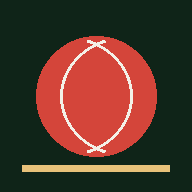
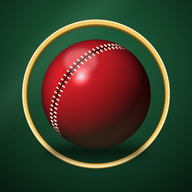
Add files via upload

diff --git a/index.html b/index.html
@@ -2,47 +2,68 @@
 <html lang="ur"><head><meta charset="utf-8">
 <meta name="viewport" content="width=device-width,initial-scale=1,viewport-fit=cover">
 <meta name="author" content="Sadiq Ahmad"><title>SadCricScorer</title>
-<link rel="manifest" href="manifest.json"><meta name="theme-color" content="#0f2418">
+<link rel="manifest" href="manifest.json"><meta name="theme-color" content="#0a1d13">
 <link rel="icon" href="icon-192.png"><link rel="apple-touch-icon" href="icon-192.png">
 <meta name="apple-mobile-web-app-capable" content="yes"><meta name="mobile-web-app-capable" content="yes">
 <meta name="apple-mobile-web-app-title" content="SadCricScorer">
 <style>
-:root{--bg:#0f2418;--pn:#183626;--ln:#2b5239;--tx:#f3f1e8;--mu:#9bb5a2;--ac:#e8c27a;--rd:#d4453a}
+:root{--bg:#07140d;--pn:#173a28;--ln:#2d5a41;--tx:#f4f1e6;--mu:#97b4a2;--ac:#f0c96b;--rd:#e0483c}
 *{box-sizing:border-box;-webkit-tap-highlight-color:transparent}
-body{margin:0;background:var(--bg);color:var(--tx);font:15px system-ui,sans-serif;padding-bottom:70px}
-#app{padding:12px;max-width:560px;margin:auto}
-nav{position:fixed;bottom:0;left:0;right:0;display:flex;background:#0a1a11;border-top:1px solid var(--ln);padding-bottom:env(safe-area-inset-bottom,0)}
-nav button{flex:1;background:none;border:0;color:var(--mu);padding:14px 0;font-size:13px}
-nav button.on{color:var(--ac);font-weight:700}
-.c{background:var(--pn);border:1px solid var(--ln);border-radius:10px;padding:12px;margin-bottom:12px}
-h3{margin:0 0 8px;font-size:17px}
-input,select,textarea{background:#0f2418;color:var(--tx);border:1px solid var(--ln);border-radius:8px;padding:9px;font-size:15px;max-width:100%}
-button{font:inherit;color:var(--tx)}
-.b{background:var(--ln);border:0;border-radius:8px;padding:11px 14px}
-.b.p{background:var(--ac);color:#1a1a0f;font-weight:700}
-.row{display:flex;justify-content:space-between;align-items:center;padding:7px 0;border-bottom:1px solid var(--ln);gap:6px}
+html{background:#06120b}
+body{margin:0;color:var(--tx);font:15px/1.4 Inter,"Segoe UI",Roboto,system-ui,sans-serif;background:radial-gradient(120% 60% at 50% -10%,#1d5a39 0%,#0c2418 45%,#06120b 100%) fixed;min-height:100vh;padding-bottom:100px}
+#hd{position:sticky;top:0;z-index:5;display:flex;align-items:center;gap:10px;padding:10px 14px;padding-top:calc(10px + env(safe-area-inset-top,0px));background:linear-gradient(#0a1d13f2,#0a1d13cc);backdrop-filter:blur(10px);-webkit-backdrop-filter:blur(10px);border-bottom:1px solid #ffffff14}
+#hd svg{width:40px;height:40px;filter:drop-shadow(0 3px 4px #0009)}
+#hd b{font-size:20px;letter-spacing:.3px;background:linear-gradient(90deg,#fff,#f0c96b);-webkit-background-clip:text;background-clip:text;color:transparent}
+#hd small{display:block;font-size:11px;color:var(--mu);margin-top:-1px}
+#app{padding:14px;max-width:560px;margin:auto}
+nav{position:fixed;left:12px;right:12px;bottom:calc(10px + env(safe-area-inset-bottom,0px));max-width:536px;margin:auto;display:flex;gap:4px;padding:6px;background:linear-gradient(#173a28f5,#0d2418f5);border:1px solid #ffffff1c;border-radius:24px;box-shadow:0 12px 30px #000b,inset 0 1px 0 #ffffff22;z-index:6}
+nav button{flex:1;background:none;border:0;color:var(--mu);padding:8px 0;font-size:11.5px;border-radius:18px;line-height:1.25;transition:.15s}
+nav button.on{color:#2a1d02;font-weight:800;background:linear-gradient(#f8dc8c,#d9a441);box-shadow:0 3px 0 #8d6a1f,0 6px 12px #0008}
+.c{background:linear-gradient(160deg,#1f4c35,#143222);border:1px solid #ffffff14;border-radius:18px;padding:14px;margin-bottom:14px;box-shadow:0 10px 22px #0006,inset 0 1px 0 #ffffff1c;animation:fd .25s ease}
+@keyframes fd{from{opacity:0;transform:translateY(8px)}}
+.hero{background:radial-gradient(circle at 88% 0%,#348656 0,#1a4630 50%,#0f2a1c);position:relative;overflow:hidden}
+.hero::after{content:'';position:absolute;right:-34px;top:-34px;width:140px;height:140px;border-radius:50%;background:radial-gradient(circle at 35% 30%,#ff7a6b,#c8302a 45%,#5f0d12);opacity:.2}
+h3{margin:0 0 10px;font-size:17px;letter-spacing:.2px}
+input,select,textarea{background:#0a1d13;color:var(--tx);border:1px solid #ffffff1f;border-radius:12px;padding:11px 12px;font-size:15px;max-width:100%;box-shadow:inset 0 2px 5px #0007;outline:none;font-family:inherit}
+input:focus,select:focus,textarea:focus{border-color:var(--ac);box-shadow:inset 0 2px 5px #0007,0 0 0 3px #f0c96b33}
+input[type=checkbox]{width:18px;height:18px;vertical-align:-3px;accent-color:#f0c96b}
+button{font:inherit;color:var(--tx);cursor:pointer}
+.b{--k:#12301f;background:linear-gradient(#3d7054,#2a5039);border:0;border-radius:12px;padding:11px 15px;box-shadow:0 4px 0 var(--k),0 9px 14px #0006,inset 0 1px 0 #ffffff33;transition:transform .08s,box-shadow .08s;margin:2px 0}
+.b:active{transform:translateY(3px);box-shadow:0 1px 0 var(--k),0 3px 6px #0006}
+.b.p{--k:#8d6a1f;background:linear-gradient(#f8dc8c,#dba73f);color:#2a1d02;font-weight:800}
+.row{display:flex;justify-content:space-between;align-items:center;padding:9px 0;border-bottom:1px solid #ffffff12;gap:8px}
 .row:last-child{border:0}
-.tm{background:#0f2418;border:1px solid var(--ln);border-radius:6px;padding:7px 13px;margin-left:5px}
-.tm.on{background:var(--ac);color:#111;font-weight:700}
-.av{border-radius:50%;background:var(--ln);display:inline-flex;align-items:center;justify-content:center;vertical-align:middle;object-fit:cover;margin-right:8px;font-weight:700;color:var(--ac)}
-.big{font-size:38px;font-weight:800;color:var(--ac);line-height:1}
+.tm{background:#0a1d13;border:1px solid #ffffff22;border-radius:10px;padding:8px 15px;margin-left:6px;font-weight:700}
+.tm.on{background:linear-gradient(#f8dc8c,#dba73f);color:#2a1d02;border-color:transparent;box-shadow:0 3px 0 #8d6a1f}
+.av{border-radius:50%;background:linear-gradient(#2f6a49,#1b412c);display:inline-flex;align-items:center;justify-content:center;vertical-align:middle;object-fit:cover;margin-right:9px;font-weight:800;color:var(--ac);box-shadow:0 0 0 2px #f0c96b99,0 3px 6px #0007}
+.big{font-size:50px;font-weight:900;line-height:1;background:linear-gradient(#fff,#f0c96b);-webkit-background-clip:text;background-clip:text;color:transparent;filter:drop-shadow(0 3px 6px #0008);margin-top:4px;font-variant-numeric:tabular-nums}
 .mu{color:var(--mu);font-size:13px}
-.g{display:grid;grid-template-columns:repeat(4,1fr);gap:8px;margin:10px 0}
-.g button{background:var(--ln);border:0;border-radius:10px;padding:16px 0;font-size:20px;font-weight:700}
-.g .w{background:var(--rd)}.g .x{font-size:14px}.g .on{background:var(--ac);color:#111}
-.ch{display:inline-block;min-width:30px;text-align:center;padding:5px 7px;margin:2px;border-radius:15px;background:var(--ln);font-weight:700;font-size:13px}
-.ch.o{background:var(--rd)}.ch.f{background:var(--ac);color:#111}
-table{width:100%;border-collapse:collapse;font-size:14px}
-td,th{padding:7px 3px;text-align:right;border-bottom:1px solid var(--ln)}
+.g{display:grid;grid-template-columns:repeat(4,1fr);gap:11px;margin:14px 0}
+.g button{--k:#12301f;border:0;border-radius:16px;padding:17px 0;font-size:22px;font-weight:800;background:linear-gradient(#3f7656,#295139);box-shadow:0 5px 0 var(--k),0 10px 16px #0006,inset 0 1px 0 #ffffff38;transition:transform .08s,box-shadow .08s}
+.g button:active{transform:translateY(4px);box-shadow:0 1px 0 var(--k),0 2px 6px #0006}
+.g .r0{--k:#1b2822;background:linear-gradient(#52695d,#35463d)}
+.g .r4{--k:#1b4380;background:linear-gradient(#5aa4f0,#2f6fc4)}
+.g .r6,.g .on{--k:#8d6a1f;background:linear-gradient(#f8dc8c,#dba73f);color:#2a1d02}
+.g .w{--k:#7c1a15;background:linear-gradient(#f4695c,#c3322a)}
+.g .x{font-size:14px;padding:17px 0}
+.ch{display:inline-block;min-width:35px;text-align:center;padding:8px 9px;margin:3px;border-radius:50%;background:linear-gradient(#3f7656,#264a35);font-weight:800;font-size:13px;box-shadow:0 3px 0 #12301f,inset 0 1px 0 #ffffff38}
+.ch.o{background:linear-gradient(#f4695c,#b82b24);box-shadow:0 3px 0 #6d1712,inset 0 1px 0 #ffffff38}
+.ch.f{background:linear-gradient(#f8dc8c,#dba73f);color:#2a1d02;box-shadow:0 3px 0 #8d6a1f,inset 0 1px 0 #fff8}
+table{width:100%;border-collapse:collapse;font-size:14px;font-variant-numeric:tabular-nums}
+td,th{padding:9px 4px;text-align:right;border-bottom:1px solid #ffffff12}
 td:nth-child(2),th:nth-child(2){text-align:left}
-th{color:var(--mu);font-weight:500}
-.sub{display:flex;gap:6px;margin-bottom:10px;overflow-x:auto}
-.sub button{background:var(--pn);border:1px solid var(--ln);border-radius:20px;padding:8px 14px;white-space:nowrap}
-.sub button.on{background:var(--ac);color:#111;font-weight:700}
-#M{display:none;position:fixed;inset:0;background:#000a;align-items:flex-end;justify-content:center;z-index:9}
-.md{background:var(--pn);width:100%;max-width:560px;max-height:75vh;overflow:auto;border-radius:16px 16px 0 0;padding:14px}
-.it{display:block;width:100%;text-align:left;background:var(--ln);border:0;border-radius:8px;padding:13px;margin-bottom:6px;font-size:16px}
+th{color:var(--mu);font-weight:600;font-size:11.5px;text-transform:uppercase;letter-spacing:.5px}
+tr:active td{background:#ffffff0d}
+.sub{display:flex;gap:8px;margin-bottom:12px;overflow-x:auto;padding:2px 2px 6px}
+.sub button{background:linear-gradient(#1c4430,#143222);border:1px solid #ffffff1c;border-radius:20px;padding:9px 16px;white-space:nowrap;box-shadow:0 3px 0 #0a1d13}
+.sub button.on{background:linear-gradient(#f8dc8c,#dba73f);color:#2a1d02;font-weight:800;border-color:transparent;box-shadow:0 3px 0 #8d6a1f}
+#M{display:none;position:fixed;inset:0;background:#000b;backdrop-filter:blur(3px);-webkit-backdrop-filter:blur(3px);align-items:flex-end;justify-content:center;z-index:9}
+.md{background:linear-gradient(#1f4c35,#122d1f);width:100%;max-width:560px;max-height:78vh;overflow:auto;border-radius:24px 24px 0 0;padding:16px;border-top:1px solid #ffffff22;box-shadow:0 -10px 30px #000a;animation:up .22s ease}
+@keyframes up{from{transform:translateY(50px);opacity:0}}
+.it{display:block;width:100%;text-align:left;background:linear-gradient(#2f6247,#234a35);border:1px solid #ffffff14;border-radius:14px;padding:13px;margin-bottom:8px;font-size:16px;box-shadow:0 3px 0 #0d2618,inset 0 1px 0 #ffffff1f}
+.it:active{transform:translateY(2px);box-shadow:0 1px 0 #0d2618}
 </style></head><body>
+<header id="hd"><svg viewBox="0 0 64 64" aria-label="SadCricScorer"><defs><radialGradient id="lg" cx=".33" cy=".28" r=".95"><stop offset="0" stop-color="#ff7d6e"/><stop offset=".42" stop-color="#cf2b2b"/><stop offset="1" stop-color="#5a0b10"/></radialGradient><linearGradient id="gr" x1="0" y1="0" x2="1" y2="1"><stop offset="0" stop-color="#ffe9a8"/><stop offset="1" stop-color="#c9922f"/></linearGradient></defs><circle cx="32" cy="32" r="30" fill="none" stroke="url(#gr)" stroke-width="2.4"/><circle cx="32" cy="32" r="24" fill="url(#lg)"/><path d="M17 20C30 27 31 38 21 48" fill="none" stroke="#f6ebcd" stroke-width="1.8" stroke-dasharray="2.2 1.8" stroke-linecap="round"/><path d="M22 16C36 25 37 40 27 51" fill="none" stroke="#f6ebcd" stroke-width="1.8" stroke-dasharray="2.2 1.8" stroke-linecap="round" opacity=".85"/><ellipse cx="24" cy="21" rx="7" ry="4" fill="#fff" opacity=".35" transform="rotate(-35 24 21)"/></svg><div><b>SadCricScorer</b><small>by Sadiq Ahmad</small></div></header>
 <div id="app"></div><div id="M"></div>
 <nav id="tabs"></nav>
 <script>
@@ -403,9 +424,9 @@ function scorer(){
  const bl=id=>{if(!id)return '';const s=bs(n,id);return `<div class=row><span>${av(id,26)}${nm(id)}${id==n.s?' 🏏':''}</span><b>${s.r} <span class=mu>(${s.f})</span></b></div>`};
  const b=n.bw?bw(n,n.bw):null,pc=parts(n).cur,pr=n.s&&n.n?`<div class=row><span class=mu>Partnership</span><span>${pc.r} <span class=mu>(${pc.b})</span></span></div>`:'';
  return `<div class=mu onclick="back()" style="margin-bottom:8px">‹ Matches · ${m.t[0].n} vs ${m.t[1].n} <span style="float:right" onclick="event.stopPropagation();shareImg('${m.id}')">📤 Share</span></div>
- <div class=c><div class=mu>${m.t[n.bat].n} batting · Innings ${i+1}</div><div class=big>${t}/${w}</div><div class=mu style="margin-top:4px">${info}</div></div>
+ <div class="c hero"><div class=mu>${m.t[n.bat].n} batting · Innings ${i+1}</div><div class=big>${t}/${w}</div><div class=mu style="margin-top:4px">${info}</div></div>
  ${n.ended?endBox(m,i):`<div class=c>${bl(n.s)}${bl(n.n)}${n.bw?`<div class=row><span class=mu>Bowler: ${nm(n.bw)}</span><span class=mu>${b.o}-${b.r}-${b.w}</span></div>`:''}${pr}<div style="margin-top:6px">${c.map(chip).join('')||'<span class=mu>Naya over</span>'}</div></div>
- <div class=g>${[0,1,2,3,4,6].map(r=>`<button class="${r>=4?'on':''}" onclick="ball(${r})">${r}</button>`).join('')}
+ <div class=g>${[0,1,2,3,4,6].map(r=>`<button class="r${r}" onclick="ball(${r})">${r}</button>`).join('')}
  <button class="x ${nbOn?'on':''}" onclick="nbOn=!nbOn;render()">No ball</button><button class=x onclick="ball(0,'w')">Wide</button>
  <button class="w" onclick="ball(0,'',1)">OUT</button><button class="w x" onclick="ball(0,'',1,1)">Run out</button>
  <button class=x onclick="undo()">↩ Undo</button><button class=x onclick="retire()">🔄 Retire</button><button class=x style="grid-column:span 2" onclick="endInn()">Innings khatam</button></div>`}
@@ -459,7 +480,7 @@ function summary(m){
 }
 
 function render(){
- $('#tabs').innerHTML=[['match','🏏 Match'],['tn','🏆 Tournament'],['pl','👥 Players'],['st','📊 Stats']].map(t=>`<button class="${tab==t[0]?'on':''}" onclick="tab='${t[0]}';M.style.display='none';render()">${t[1]}</button>`).join('');
+ $('#tabs').innerHTML=[['match','🏏 Match'],['tn','🏆 Tournament'],['pl','👥 Players'],['st','📊 Stats']].map(t=>`<button class="${tab==t[0]?'on':''}" onclick="tab='${t[0]}';M.style.display='none';render()"><i style="font-style:normal;font-size:20px;display:block">${t[1].split(' ')[0]}</i>${t[1].split(' ').slice(1).join(' ')}</button>`).join('');
  $('#app').innerHTML=(tab=='match'?(cm?scorer():setupV()):tab=='tn'?tnV():tab=='pl'?playersV():statsV(null))+'<div class=mu style="text-align:center;margin:18px 0 6px">🏏 SadCricScorer · Developed by Sadiq Ahmad</div>';
  if(tab=='match'&&cm)need();
 }
